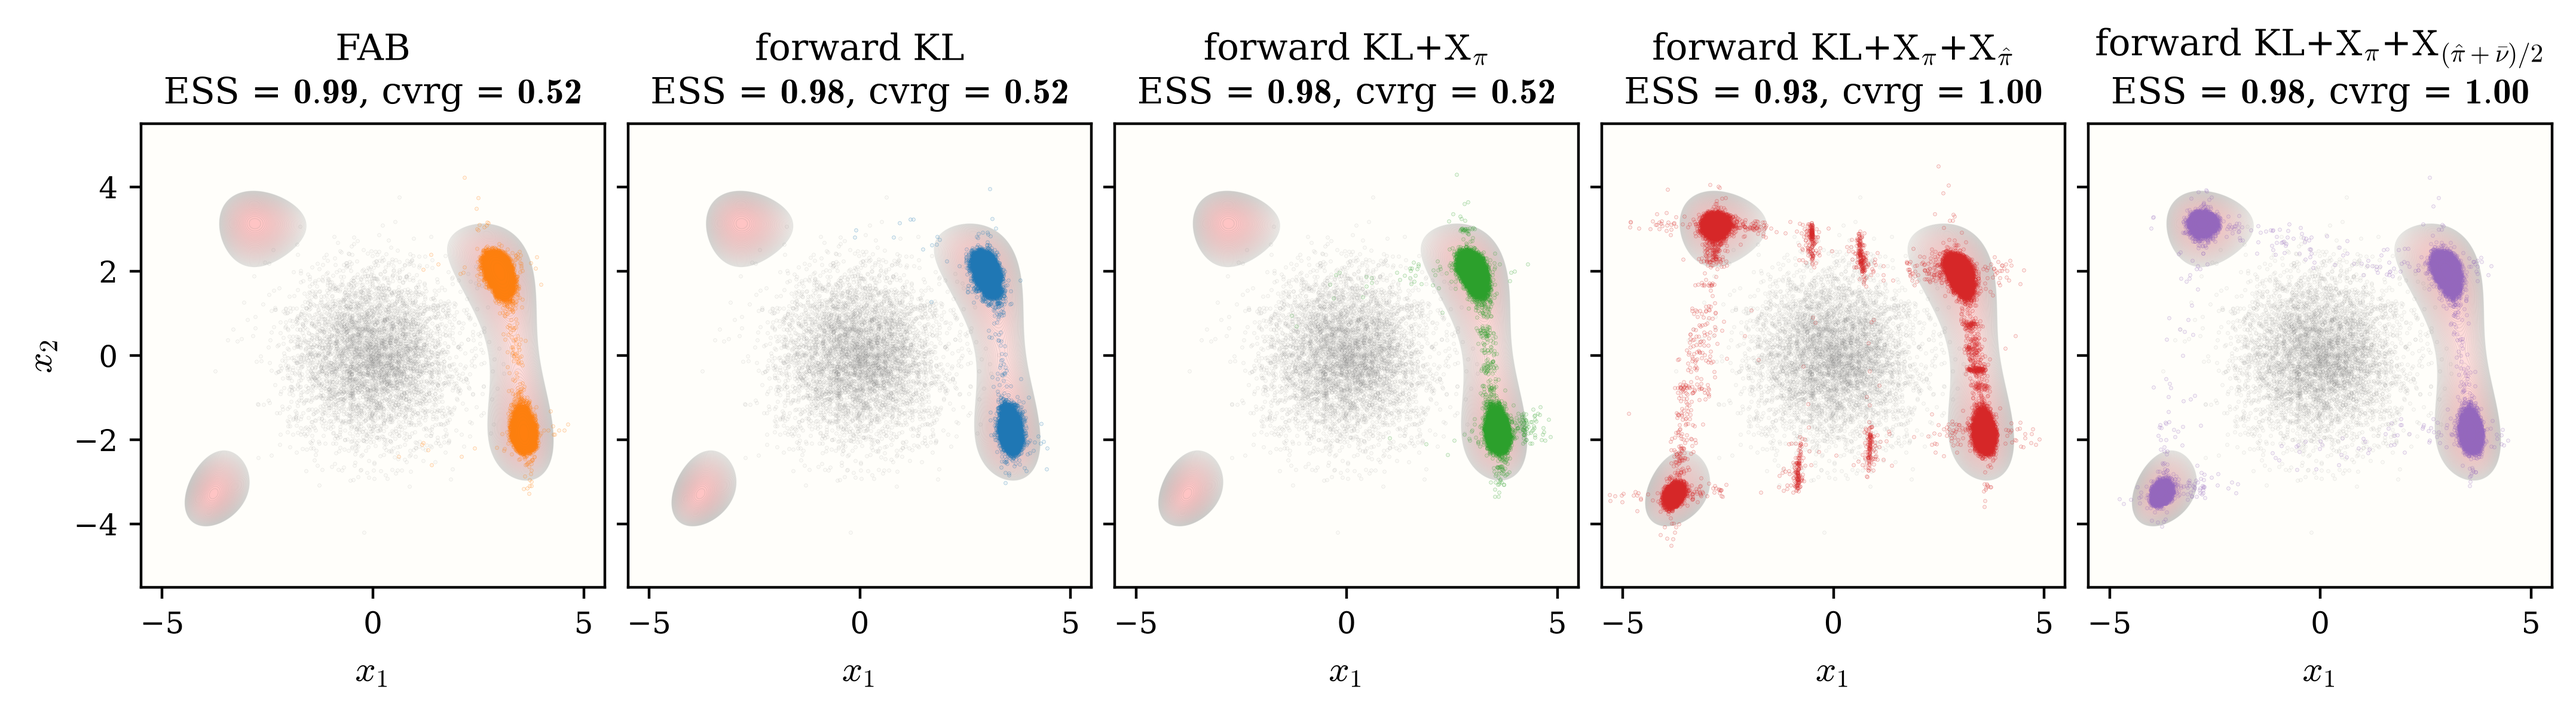
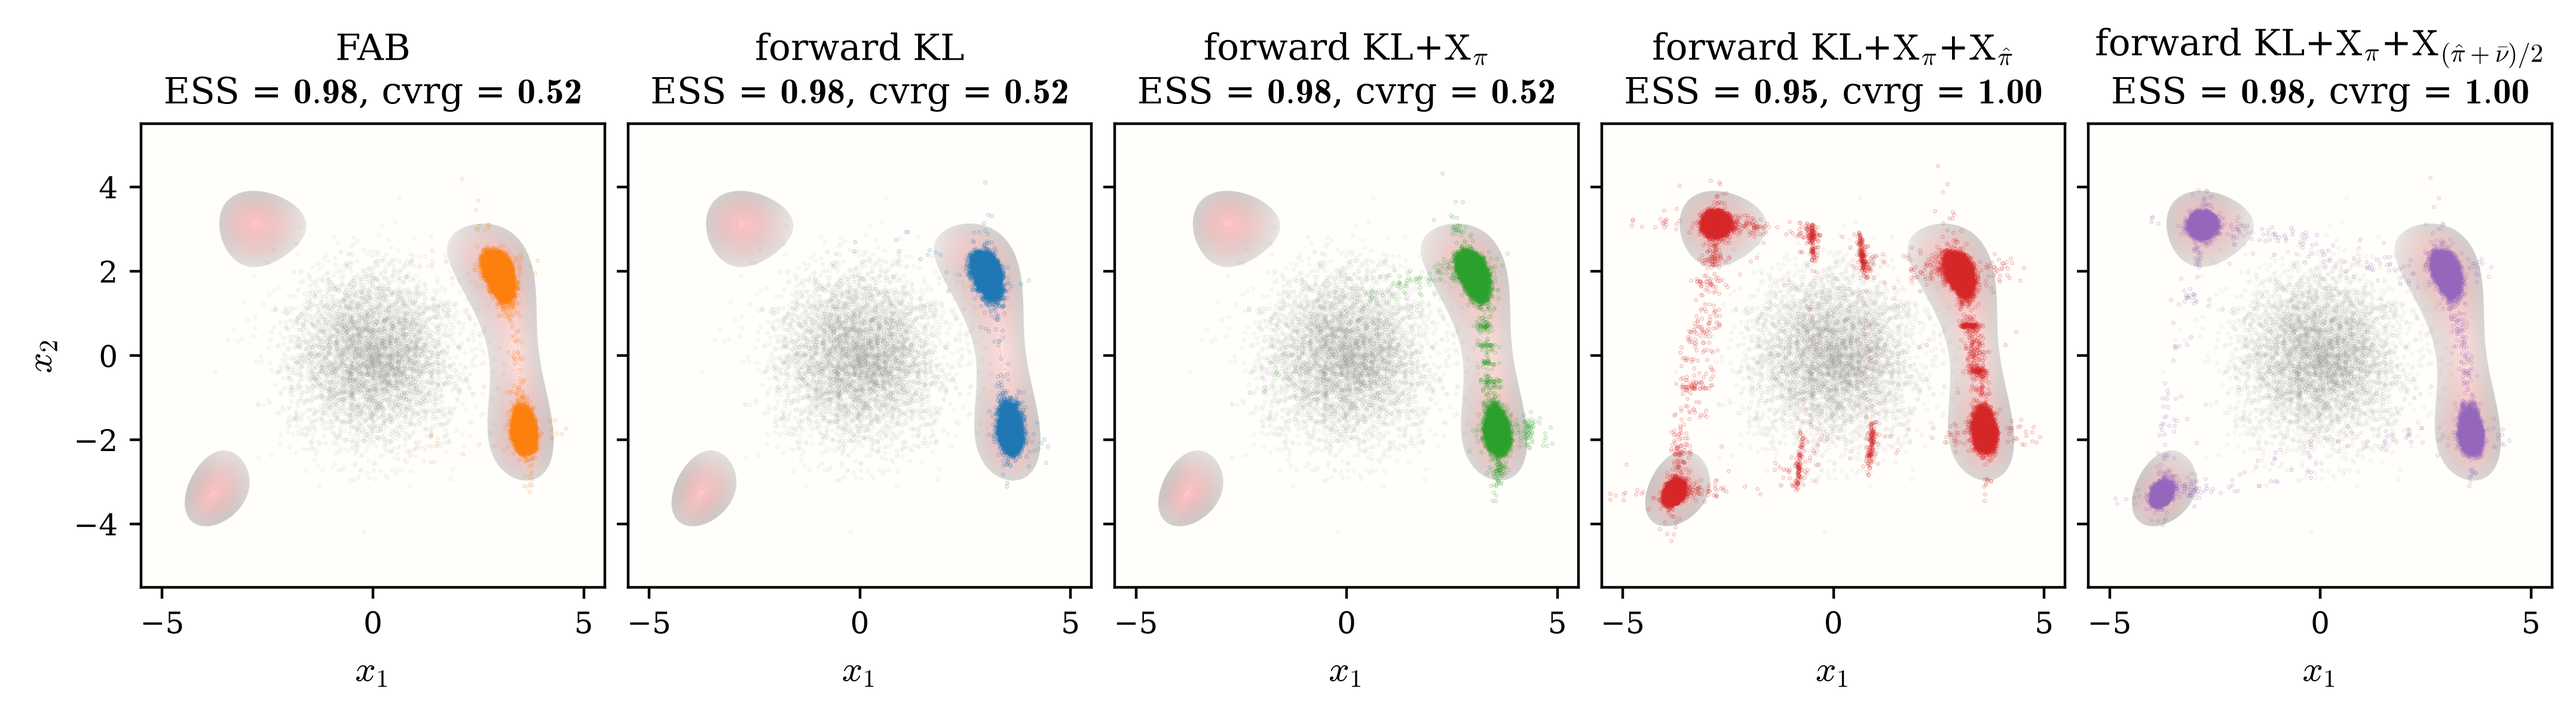
2D benchmarks rerun with the fixed SMC: five methods, mc_steps_2 on the single level, figures regenerated
Claude-Session: https://claude.ai/code/session_016SG3MpRQ6oT61wn5VSkfDi

diff --git a/Codes_New/2D_Benchmark/Two-Moon/train.py b/Codes_New/2D_Benchmark/Two-Moon/train.py
@@ -71,7 +71,7 @@ LR: float = 1e-3       # Adam learning rate
 # data pipeline (annealing + MALA rejuvenation)
 LADDER: int = 1        # SMC levels per target batch (per phase for FAB)
 MC_DT: float = 1e-3  # Langevin step size
-MC_STEPS_1: int = 100   # Langevin steps per SMC level / per hat_pi MALA refresh
+MC_STEPS_1: int = 20   # Langevin steps per SMC level / per hat_pi MALA refresh
 MC_STEPS_2: int = 100   # Langevin steps of the quench-and-temper pool temper
 
 # quench and temper (the wide-coverage measure hat_pi)
@@ -168,19 +168,19 @@ def main() -> None:
             flow, batch_ess_hist = train_FAB_G(
                 x_valid, u0, u1, flow0,
                 batch_size=BATCH_SZIE, steps_total=STEPS_TOTAL, lr=LR,
-                ladder=LADDER, mc_dt=MC_DT, mc_steps_1=MC_STEPS_1,
+                ladder=LADDER, mc_dt=MC_DT, mc_steps_1=MC_STEPS_1, mc_steps_2=MC_STEPS_2,
                 mc_adjust=True, monitor=mon)
         elif name == "KL":
             flow, batch_ess_hist = train_forward_KLX_G(
                 x_valid, u0, u1, flow0,
                 batch_size=BATCH_SZIE, steps_total=STEPS_TOTAL, lr=LR,
-                ladder=LADDER, mc_dt=MC_DT, mc_steps_1=MC_STEPS_1,
+                ladder=LADDER, mc_dt=MC_DT, mc_steps_1=MC_STEPS_1, mc_steps_2=MC_STEPS_2,
                 coeff_lambda=0.0, mc_adjust=True, monitor=mon)
         elif name == "KL+X_pi":
             flow, batch_ess_hist = train_forward_KLX_G(
                 x_valid, u0, u1, flow0,
                 batch_size=BATCH_SZIE, steps_total=STEPS_TOTAL, lr=LR,
-                ladder=LADDER, mc_dt=MC_DT, mc_steps_1=MC_STEPS_1,
+                ladder=LADDER, mc_dt=MC_DT, mc_steps_1=MC_STEPS_1, mc_steps_2=MC_STEPS_2,
                 coeff_lambda=1.0, mc_adjust=True, monitor=mon)
         elif name == "KL+X_pi+X_hat_pi":
             flow, batch_ess_hist = train_forward_KLXX_G(

diff --git a/Codes_New/2D_Benchmark/Himmelblau/train.py b/Codes_New/2D_Benchmark/Himmelblau/train.py
@@ -68,7 +68,7 @@ LR: float = 1e-3       # Adam learning rate
 # data pipeline (annealing + MALA rejuvenation)
 LADDER: int = 1        # annealing levels per target batch
 MC_DT: float = 2e-3  # Langevin step size
-MC_STEPS_1: int = 50   # Langevin steps per SMC level / per hat_pi MALA refresh
+MC_STEPS_1: int = 20   # Langevin steps per SMC level / per hat_pi MALA refresh
 MC_STEPS_2: int = 50   # Langevin steps of the quench-and-temper pool temper
 
 # quench and temper (the wide-coverage measure hat_pi)
@@ -150,19 +150,19 @@ def main() -> None:
             flow, batch_ess_hist = train_FAB_G(
                 x_valid, u0, u1, flow0,
                 batch_size=BATCH_SZIE, steps_total=STEPS_TOTAL, lr=LR,
-                ladder=LADDER, mc_dt=MC_DT, mc_steps_1=MC_STEPS_1,
+                ladder=LADDER, mc_dt=MC_DT, mc_steps_1=MC_STEPS_1, mc_steps_2=MC_STEPS_2,
                 mc_adjust=True, monitor=mon)
         elif name == "KL":
             flow, batch_ess_hist = train_forward_KLX_G(
                 x_valid, u0, u1, flow0,
                 batch_size=BATCH_SZIE, steps_total=STEPS_TOTAL, lr=LR,
-                ladder=LADDER, mc_dt=MC_DT, mc_steps_1=MC_STEPS_1,
+                ladder=LADDER, mc_dt=MC_DT, mc_steps_1=MC_STEPS_1, mc_steps_2=MC_STEPS_2,
                 coeff_lambda=0.0, mc_adjust=True, monitor=mon)
         elif name == "KL+X_pi":
             flow, batch_ess_hist = train_forward_KLX_G(
                 x_valid, u0, u1, flow0,
                 batch_size=BATCH_SZIE, steps_total=STEPS_TOTAL, lr=LR,
-                ladder=LADDER, mc_dt=MC_DT, mc_steps_1=MC_STEPS_1,
+                ladder=LADDER, mc_dt=MC_DT, mc_steps_1=MC_STEPS_1, mc_steps_2=MC_STEPS_2,
                 coeff_lambda=1.0, mc_adjust=True, monitor=mon)
         elif name == "KL+X_pi+X_hat_pi":
             flow, batch_ess_hist = train_forward_KLXX_G(

diff --git a/Codes_New/2D_Benchmark/Sparse/train.py b/Codes_New/2D_Benchmark/Sparse/train.py
@@ -70,7 +70,7 @@ LR: float = 5e-3       # Adam learning rate
 # data pipeline (annealing + MALA rejuvenation)
 LADDER: int = 1        # annealing levels per target batch
 MC_DT: float = 2e-3  # Langevin step size
-MC_STEPS_1: int = 50   # Langevin steps per SMC level / per hat_pi MALA refresh
+MC_STEPS_1: int = 20   # Langevin steps per SMC level / per hat_pi MALA refresh
 MC_STEPS_2: int = 50   # Langevin steps of the quench-and-temper pool temper
 
 # quench and temper (the wide-coverage measure hat_pi)
@@ -159,19 +159,19 @@ def main() -> None:
             flow, batch_ess_hist = train_FAB_G(
                 x_valid, u0, u1, flow0,
                 batch_size=BATCH_SZIE, steps_total=STEPS_TOTAL, lr=LR,
-                ladder=LADDER, mc_dt=MC_DT, mc_steps_1=MC_STEPS_1,
+                ladder=LADDER, mc_dt=MC_DT, mc_steps_1=MC_STEPS_1, mc_steps_2=MC_STEPS_2,
                 mc_adjust=True, monitor=mon)
         elif name == "KL":
             flow, batch_ess_hist = train_forward_KLX_G(
                 x_valid, u0, u1, flow0,
                 batch_size=BATCH_SZIE, steps_total=STEPS_TOTAL, lr=LR,
-                ladder=LADDER, mc_dt=MC_DT, mc_steps_1=MC_STEPS_1,
+                ladder=LADDER, mc_dt=MC_DT, mc_steps_1=MC_STEPS_1, mc_steps_2=MC_STEPS_2,
                 coeff_lambda=0.0, mc_adjust=True, monitor=mon)
         elif name == "KL+X_pi":
             flow, batch_ess_hist = train_forward_KLX_G(
                 x_valid, u0, u1, flow0,
                 batch_size=BATCH_SZIE, steps_total=STEPS_TOTAL, lr=LR,
-                ladder=LADDER, mc_dt=MC_DT, mc_steps_1=MC_STEPS_1,
+                ladder=LADDER, mc_dt=MC_DT, mc_steps_1=MC_STEPS_1, mc_steps_2=MC_STEPS_2,
                 coeff_lambda=1.0, mc_adjust=True, monitor=mon)
         elif name == "KL+X_pi+X_hat_pi":
             flow, batch_ess_hist = train_forward_KLXX_G(

diff --git a/Codes_New/2D_Benchmark/Three-Well/train.py b/Codes_New/2D_Benchmark/Three-Well/train.py
@@ -68,7 +68,7 @@ LR: float = 1e-3       # Adam learning rate
 # data pipeline (annealing + MALA rejuvenation)
 LADDER: int = 1        # annealing levels per target batch
 MC_DT: float = 2e-3  # Langevin step size
-MC_STEPS_1: int = 50   # Langevin steps per SMC level / per hat_pi MALA refresh
+MC_STEPS_1: int = 20   # Langevin steps per SMC level / per hat_pi MALA refresh
 MC_STEPS_2: int = 50   # Langevin steps of the quench-and-temper pool temper
 
 # quench and temper (the wide-coverage measure hat_pi)
@@ -150,19 +150,19 @@ def main() -> None:
             flow, batch_ess_hist = train_FAB_G(
                 x_valid, u0, u1, flow0,
                 batch_size=BATCH_SZIE, steps_total=STEPS_TOTAL, lr=LR,
-                ladder=LADDER, mc_dt=MC_DT, mc_steps_1=MC_STEPS_1,
+                ladder=LADDER, mc_dt=MC_DT, mc_steps_1=MC_STEPS_1, mc_steps_2=MC_STEPS_2,
                 mc_adjust=True, monitor=mon)
         elif name == "KL":
             flow, batch_ess_hist = train_forward_KLX_G(
                 x_valid, u0, u1, flow0,
                 batch_size=BATCH_SZIE, steps_total=STEPS_TOTAL, lr=LR,
-                ladder=LADDER, mc_dt=MC_DT, mc_steps_1=MC_STEPS_1,
+                ladder=LADDER, mc_dt=MC_DT, mc_steps_1=MC_STEPS_1, mc_steps_2=MC_STEPS_2,
                 coeff_lambda=0.0, mc_adjust=True, monitor=mon)
         elif name == "KL+X_pi":
             flow, batch_ess_hist = train_forward_KLX_G(
                 x_valid, u0, u1, flow0,
                 batch_size=BATCH_SZIE, steps_total=STEPS_TOTAL, lr=LR,
-                ladder=LADDER, mc_dt=MC_DT, mc_steps_1=MC_STEPS_1,
+                ladder=LADDER, mc_dt=MC_DT, mc_steps_1=MC_STEPS_1, mc_steps_2=MC_STEPS_2,
                 coeff_lambda=1.0, mc_adjust=True, monitor=mon)
         elif name == "KL+X_pi+X_hat_pi":
             flow, batch_ess_hist = train_forward_KLXX_G(
